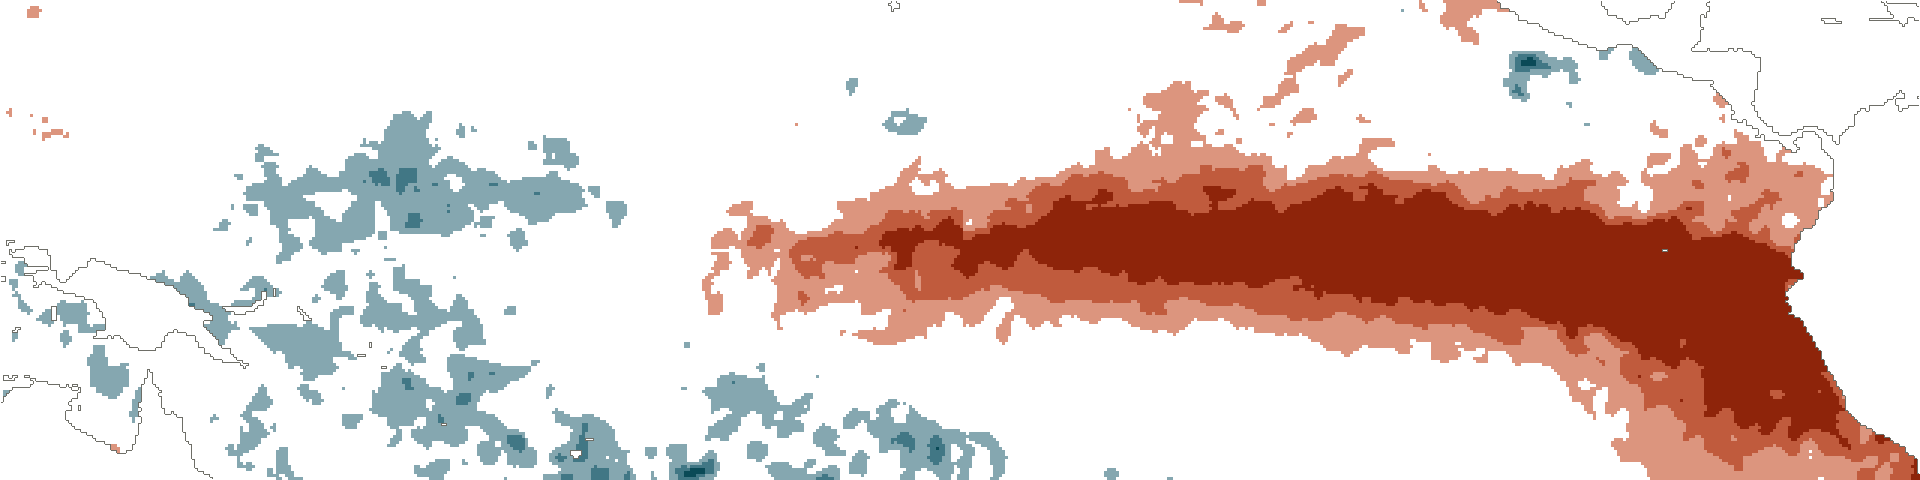
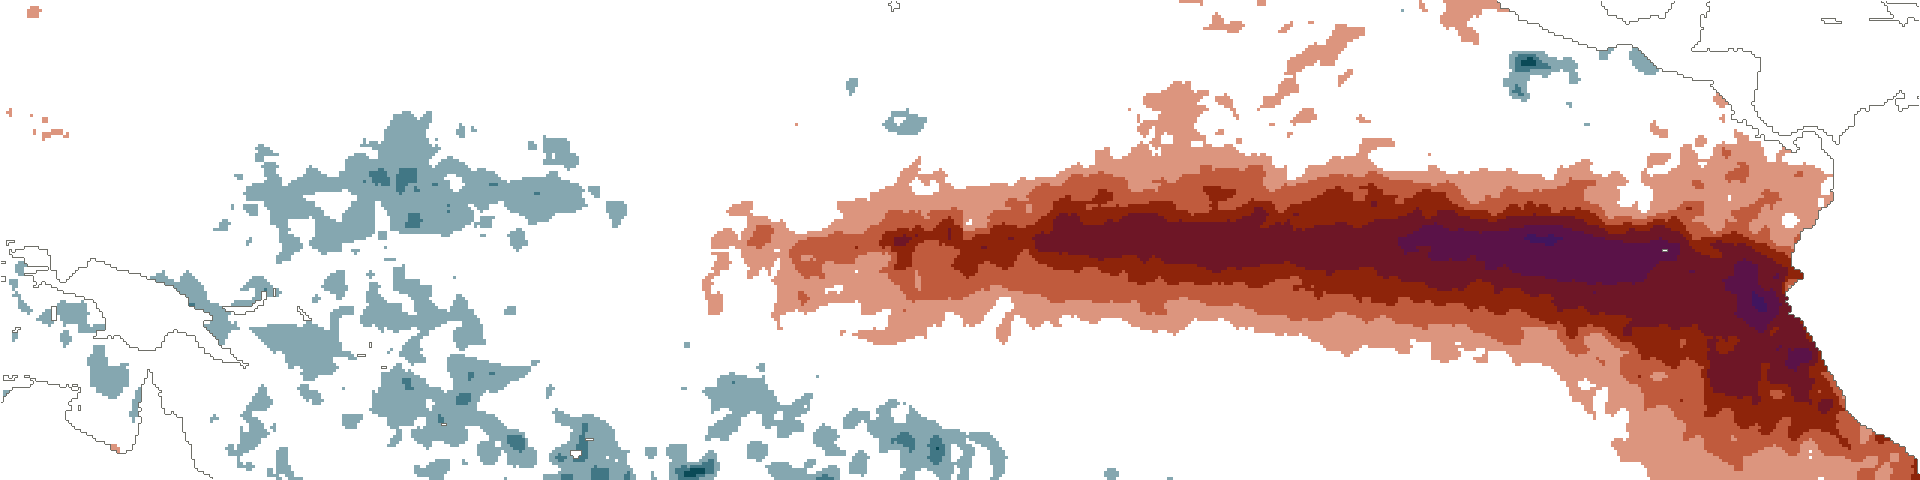
nino map: the warm side runs past +3 on this map, so the picture shows the gradient
Science's review: at the house +/-3 C the 2026 panel drew Nino 3.4 (+3.3)
and Nino 1+2 (+5.2) in the same darkest red, so only the labels said the
event is hottest in the east. Four map-only classes above +3 (3-4, 4-5,
5-6, 6+), crimson turning to violet so neighbours stay apart in light and
dark mode, the same on all three panels. Everything up to +3 keeps
tokens.ANOMALY exactly, which is what the one-scale rule protects: a +2.1
here is the colour it is everywhere else. The classes ride in the map
JSON (warm_extension); the page legend and the GIF read them from there,
so the legend now reads -3 ... +3 +4 +5 +6 C. Legend narrows at phone
width (checked at a 320 px column: one line, no overflow).

Science confirmed the rest: boxes, labels from physical_state, strict >
for records, the Nino 3.4 row on the same week, and the GIF titles.

Changed region(s): [[0.5312, 0.4375, 0.9688, 0.875]]

diff --git a/design/make_nino_map.py b/design/make_nino_map.py
@@ -60,6 +60,24 @@ LAT_S, LAT_N = -20.0, 20.0
 FILL_FLOOR = 1.0
 UPSCALE = 3
 
+# THE WARM SIDE GOES PAST THE HOUSE SCALE, ON THIS MAP ONLY. Science's
+# review, 18 Oct: at +/-3 the 2026 panel drew Nino 3.4 (+3.3) and Nino 1+2
+# (+5.2) in the same darkest red, so the picture could not show the one
+# thing the map exists for, that this event is hottest in the east; only
+# the labels did. Everything up to +3 keeps tokens.ANOMALY exactly, so a
+# +2.1 here is the colour it is on every other page, which is what the
+# one-scale rule (tokens.OCEAN_SCALE) protects. Above +3 these classes
+# take over, the same on all three panels so they stay comparable. Hue
+# turns from crimson toward violet as well as darkening, so neighbouring
+# steps stay apart in light and dark mode. Map-only, and for VD to rule
+# on if it is ever wanted elsewhere.
+WARM_EXTENSION = [            # (from C, to C or None, colour)
+    (3.0, 4.0, "#6E1626"),
+    (4.0, 5.0, "#5A1248"),
+    (5.0, 6.0, "#41155E"),
+    (6.0, None, "#25103F"),
+]
+
 
 def _rgb(s):
     s = s.lstrip("#")
@@ -117,8 +135,13 @@ def render(anom, lats, lons, scale):
     water = np.isfinite(anom)
     pac = _connected(water, lats, lons, 0.0, 200.0)
     edges = np.linspace(-scale, scale, len(T.ANOMALY) + 1)[1:-1]
-    idx = np.digitize(np.nan_to_num(anom), edges)
-    pal = np.array([_rgb(c) for c in T.ANOMALY], dtype=np.uint8)
+    a = np.nan_to_num(anom)
+    idx = np.digitize(a, edges)
+    # Above the house scale, this map's own classes (WARM_EXTENSION).
+    for k, (lo, _hi, _c) in enumerate(WARM_EXTENSION):
+        idx = np.where(a >= lo, len(T.ANOMALY) + k, idx)
+    pal = np.array([_rgb(c) for c in T.ANOMALY] + [_rgb(c) for _l, _h, c in WARM_EXTENSION],
+                   dtype=np.uint8)
     rgba = np.zeros(anom.shape + (4,), dtype=np.uint8)
     drawn = pac & (np.abs(np.nan_to_num(anom)) >= FILL_FLOOR) & (idx != len(T.ANOMALY) // 2)
     rgba[..., :3] = pal[idx]
@@ -170,6 +193,8 @@ def main():
         "extent": {"lon_west": LON_W, "lon_east": LON_E,
                    "lat_south": LAT_S, "lat_north": LAT_N},
         "full_scale": scale, "fill_floor": FILL_FLOOR,
+        "warm_extension": [{"from": lo, "to": hi, "colour": c}
+                           for lo, hi, c in WARM_EXTENSION],
         "panels": out,
         "source": "NOAA OISST v2.1 (0.25 deg daily), 7-day mean centred on "
                   "the CPC week, against 1991-2020",

diff --git a/run_brief.py b/run_brief.py
@@ -1232,8 +1232,13 @@ _PUBLIC_CSS_TEMPLATE = """
   .nm-lab b { font-weight: 500; }
   .nm-legend { display: flex; align-items: center; gap: 0; margin: 34px 0 0;
     font-family: var(--mono); font-size: 10px; color: var(--ink-faint); }
-  .nm-legend i { display: block; width: 22px; height: 8px; }
-  .nm-legend span { padding: 0 8px; }
+  .nm-legend i { display: block; width: 18px; height: 8px; flex: none; }
+  /* 13 swatches and five ticks are about 372 px at 18 px a swatch, wider
+     than a 375 px phone's column: narrower swatches there, and wrap as
+     the backstop rather than a sideways scroll. */
+  .nm-legend { flex-wrap: wrap; row-gap: 6px; }
+  @media (max-width: 480px) { .nm-legend i { width: 12px; } .nm-legend span { padding: 0 4px; } }
+  .nm-legend span { padding: 0 6px; }
   .nm-legend span:first-child { padding-left: 0; }
   .nm-rec { font-size: 14px; color: var(--ink-soft); margin: 14px 0 0; }
   .note {
@@ -3874,6 +3879,10 @@ def _nino_map_html(phys: dict, week: str, root_prefix: str) -> str:
 
     sc = meta.get("full_scale", T.OCEAN_SCALE)
     legend = "".join(f'<i style="background:{c}"></i>' for c in T.ANOMALY)
+    # Above the house +3, the map's own warm classes (make_nino_map.py,
+    # WARM_EXTENSION, Science's review): each gets its lower bound as a
+    # tick, so the legend reads -3 ... +3 +4 +5 +6.
+    ext = meta.get("warm_extension") or []
     rec = records()
     rec_html = (f'<p class="nm-rec">Records this week: {h("; ".join(rec))}.</p>'
                 if rec else "")
@@ -3888,7 +3897,9 @@ def _nino_map_html(phys: dict, week: str, root_prefix: str) -> str:
         f'<p class="section-sub" style="margin-top:22px">{h(NINO_MAP_INTRO)}</p>'
         + "".join(panels) +
         f'<div class="nm-legend"><span>&minus;{sc:g}</span>{legend}'
-        f'<span>+{sc:g} °C</span></div>'
+        + "".join(f'<span>+{e["from"]:g}</span><i style="background:{e["colour"]}"></i>'
+                  for e in ext)
+        + f'<span>{"" if ext else "+%g " % sc}°C</span></div>'
         + rec_html +
         f'<figcaption class="chart-caption">{h(NINO_MAP_CAPTION)}</figcaption>'
         '</figure>')

diff --git a/design/make_nino_gif.py b/design/make_nino_gif.py
@@ -170,11 +170,17 @@ def main():
     d.text((40, S - 46), "thelongswell.com", font=font(MONO_M, 20), fill=INK)
     # legend, in the footer row beside the site name: the stacked bands
     # leave no room under them at 960
-    lx, ly = 520, S - 40
-    d.text((lx - 40, ly - 6), "-%g" % meta["full_scale"], font=font(MONO, 16), fill=SOFT)
-    for j, c in enumerate(T.ANOMALY):
-        d.rectangle([lx + j * 28, ly, lx + j * 28 + 28, ly + 10], fill=rgb(c))
-    d.text((lx + 9 * 28 + 8, ly - 6), "+%g °C" % meta["full_scale"], font=font(MONO, 16), fill=SOFT)
+    lx, ly, sw = 330, S - 40, 22
+    d.text((lx - 34, ly - 6), "-%g" % meta["full_scale"], font=font(MONO, 15), fill=SOFT)
+    x = lx
+    for c in T.ANOMALY:
+        d.rectangle([x, ly, x + sw, ly + 10], fill=rgb(c)); x += sw
+    for e in meta.get("warm_extension", []):
+        t = "+%g" % e["from"]
+        d.text((x + 4, ly - 6), t, font=font(MONO, 15), fill=SOFT)
+        x += d.textlength(t, font=font(MONO, 15)) + 8
+        d.rectangle([x, ly, x + sw, ly + 10], fill=rgb(e["colour"])); x += sw
+    d.text((x + 6, ly - 6), "°C", font=font(MONO, 15), fill=SOFT)
     for t in (0.25, 0.5, 0.75):
         frames.append(Image.blend(frames[-1], stack, t)); durs.append(90)
     frames.append(stack); durs.append(5000)
